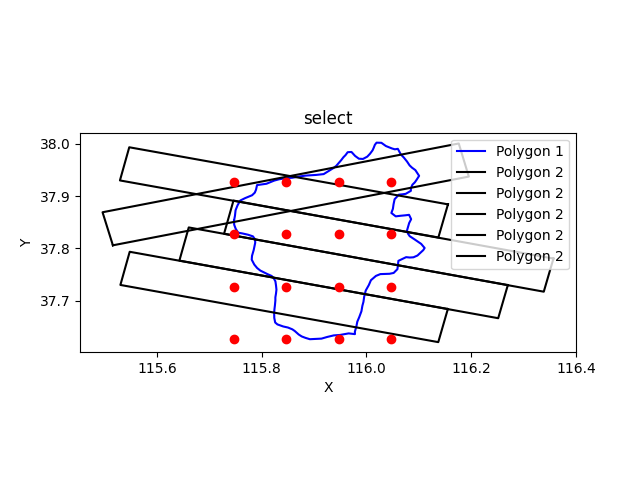
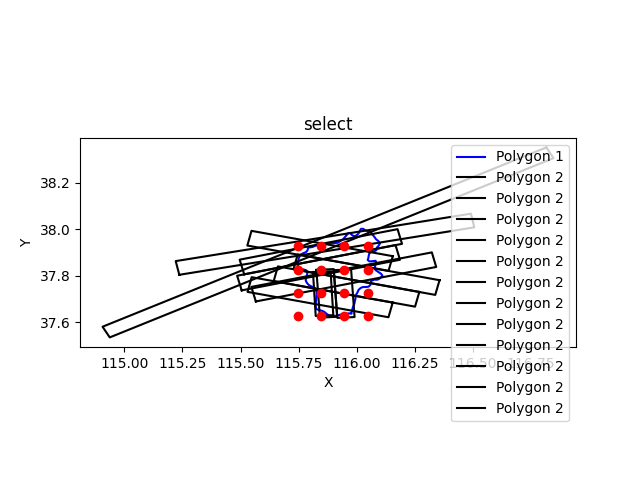
240814 test-1

diff --git a/src/test/areaSplit.py b/src/test/areaSplit.py
@@ -81,6 +81,8 @@ def seconds_to_time_str(seconds):
 
 
 def cmd_satellite_tools(satellite, area):
+    shape = area[3]
+    area_name = area[0]
     # print(type(area[3]))
     show_polygon_shape(area[3], area[0])
 
@@ -118,34 +120,55 @@ def cmd_satellite_tools(satellite, area):
     GeoDataFrames = []
     cur_path = os.getcwd()
     os.chdir("../../")
+    flag = False
     for i in satellite:
         m2json['satellite_id'] = i
         # m3json['satellite_id'] = i
+        set_name = "set001"
+        print()
+        if os.path.exists("./output/" + set_name + "_" + area_name + "_" + i + ".gpkg"):
+            flag = True
+            tmp_list = []
+            tmp_time_list = []
+            getGeoDataFrame = gpkg_test.get_output_gpkg(set_name + "_" + area_name + "_" + i, "./output")
+            for idx in range(len(getGeoDataFrame)):
+                GeoDataFrames.append(getGeoDataFrame.iloc[idx].geometry)
+                tmp_time_list.append([getGeoDataFrame.iloc[idx].time, getGeoDataFrame.iloc[idx].roll_angle,
+                                      getGeoDataFrame.iloc[idx].sun_elevation_angle])
+                tmp_list.append(getGeoDataFrame.iloc[idx].geometry)
+            show_polygon_shape_2(area[3], tmp_list, point_list, set_name + "_" + area_name + "_" + i)
+            print(set_name + "_" + area_name + "_" + i + ":")
+            for tmpTime in tmp_time_list:
+                print(tmpTime)
+            continue
+        if flag:
+            continue
         with open("./input/m2001.json", 'w') as f:
             json.dump(m2json, f, indent=1)
         command = "sattools.exe run -i m2001.json -m 2"
         # 执行command命令
         result = subprocess.run(command, shell=True, check=True)
-        getGeoDataFrame = gpkg_test.get_output_gpkg("m2001", "./output")
+        if os.path.exists("./output/m2001.gpkg"):
+            getGeoDataFrame = gpkg_test.get_output_gpkg("m2001", "./output")
+            os.rename("./output/m2001.gpkg", "./output/" + set_name + "_" + area_name + "_" + i + ".gpkg")
+            for idx in range(len(getGeoDataFrame)):
+                GeoDataFrames.append(getGeoDataFrame.iloc[idx].geometry)
         # print(getGeoDataFrame.iloc[0].time)
         # print(type(getGeoDataFrame.iloc[0].time))
-        for idx in range(len(getGeoDataFrame)):
-            GeoDataFrames.append(getGeoDataFrame.iloc[idx].geometry)
-
-            # show_polygon_shape(getGeoDataFrame.iloc[idx].geometry, i + " in " + area[0] + " No" + str(idx + 1))
-            # # m3 test
-            # m3json['start_time'] = seconds_to_time_str(getGeoDataFrame.iloc[idx].time)
-            # m3json['end_time'] = seconds_to_time_str(int(getGeoDataFrame.iloc[idx].time) + 10)
-            # m3json['roll_angle'] = getGeoDataFrame.iloc[idx].roll_angle
-            # print(m3json)
-            # with open("./input/m3001.json", 'w') as f:
-            #     json.dump(m3json, f, indent=1)
-            # command = "sattools.exe run -i m3001.json -m 3"
-            # result = subprocess.run(command, shell=True, check=True)
-            # getGeoDataFrame1 = gpkg_test.get_output_gpkg("m3001", "./output")
-            # show_polygon_shape(getGeoDataFrame1.iloc[0].geometry, "m3")
-            #
-            # show_polygon_shape_2(area[3], [getGeoDataFrame.iloc[idx].geometry, getGeoDataFrame1.iloc[idx].geometry], point_list, "all")
+        # show_polygon_shape(getGeoDataFrame.iloc[idx].geometry, i + " in " + area[0] + " No" + str(idx + 1))
+        # # m3 test
+        # m3json['start_time'] = seconds_to_time_str(getGeoDataFrame.iloc[idx].time)
+        # m3json['end_time'] = seconds_to_time_str(int(getGeoDataFrame.iloc[idx].time) + 10)
+        # m3json['roll_angle'] = getGeoDataFrame.iloc[idx].roll_angle
+        # print(m3json)
+        # with open("./input/m3001.json", 'w') as f:
+        #     json.dump(m3json, f, indent=1)
+        # command = "sattools.exe run -i m3001.json -m 3"
+        # result = subprocess.run(command, shell=True, check=True)
+        # getGeoDataFrame1 = gpkg_test.get_output_gpkg("m3001", "./output")
+        # show_polygon_shape(getGeoDataFrame1.iloc[0].geometry, "m3")
+        #
+        # show_polygon_shape_2(area[3], [getGeoDataFrame.iloc[idx].geometry, getGeoDataFrame1.iloc[idx].geometry], point_list, "all")
 
         # for idx in range(len(getGeoDataFrame)):
         #     show_polygon_shape(getGeoDataFrame.iloc[idx].geometry, i + " in " + area[0] + " No" + str(idx+1))

diff --git a/src/test/gpkg_test.py b/src/test/gpkg_test.py
@@ -13,6 +13,11 @@ def get_output_gpkg(mission, path="../../output"):
 
     return out_gpkg_data
 
+def get_satellite_gpkg(satellite, path="../../data/satellite"):
+    satellite_gpkg_data = gpd.read_file(path + '/' + satellite + '.gpkg')
+
+    return satellite_gpkg_data
+
 
 def get_mission_id(mission_list) -> list:
     area_data = gpd.read_file(data_path + '/mission/area.gpkg')
